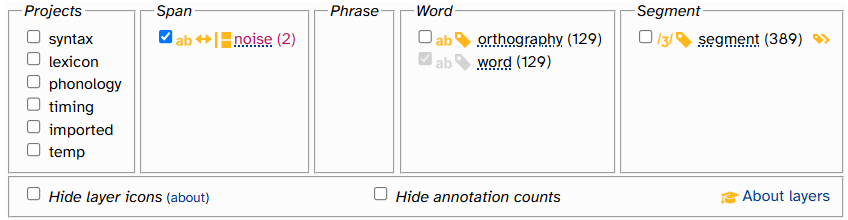
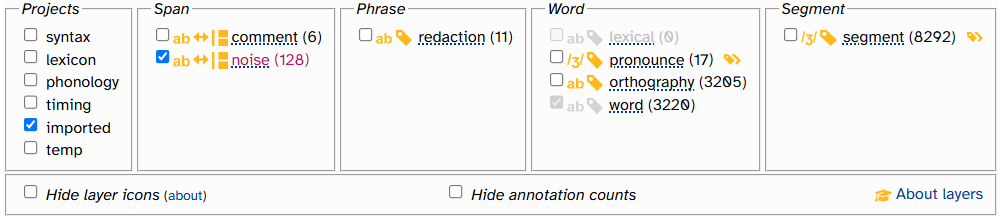
Complete draft of UI layer picker section

diff --git a/doc/about/user-interface.md b/doc/about/user-interface.md
@@ -3,7 +3,7 @@ title: User interface
 permalink: /doc/user-interface
 parent: About APLS
 nav_order: 35
-last_modified_date: 2025-05-07T13:55:55-04:00
+last_modified_date: 2025-05-07T14:11:39-04:00
 ---
 
 # {{ page.title }}
@@ -43,7 +43,7 @@ The layer picker appears in various forms on several pages.
 - [Search page]({{ '/doc/search' | relative_url }}): Selects layers to search
   - See comparison [below](#layer-picker-search)
 - [Transcripts]({{ '/doc/browse-transcripts' | relative_url }}) and [search results]({{ '/doc/export-data' | relative_url }}) pages: Selects attributes and layers to export
-  - See comparison [below](#layer-picker-t)
+  - See comparison [below](#layer-picker-transcripts)
 
 The layer picker has been updated on all these pages, with some page-specific changes.
 
@@ -63,7 +63,7 @@ These changes are exemplified by the layer picker on the search page.
 
 ### Individual transcript pages
 
-{% include compare-ui.html file="layer-picker/transcript" title_suffix="Transcript pages" caption="The layer picker when first loading a transcript page" %}
+{% include compare-ui.html file="layer-picker/transcript" title_suffix="Transcript pages" caption="The layer picker when first loading the [CB01interview.eaf](https://apls.pitt.edu/labbcat/transcript?transcript=CB01interview1.eaf) transcript page and selecting the _imported_ project" %}
 
 In addition to the [baseline changes](#layer-picker-search), the layer picker on the transcript page has:
 
@@ -76,7 +76,7 @@ In addition to the [baseline changes](#layer-picker-search), the layer picker on
 
 ### Transcripts and search results pages
 
-{% include compare-ui.html file="layer-picker/transcripts" title_suffix="Transcripts/search results pages" caption="The layer picker when selecting 'Export Formatted' on the transcripts page, or 'CSV Export' on the search results page" %}
+{% include compare-ui.html file="layer-picker/transcripts" title_suffix="Transcripts/search results pages" caption="The layer picker when selecting _Export Formatted_ on the transcripts page, or _CSV Export_ on the search results page" %}
 
 The layer picker appears on the transcripts page when selecting _Export Formatted_, and on the search results page when selecting _CSV Export_ or _Utterance Export_.
 In the first two cases, the layer picker allows the user to select participant and transcript [attributes]({{ '/doc/attribute-typology' | relative_url}}) in addition to layers.
